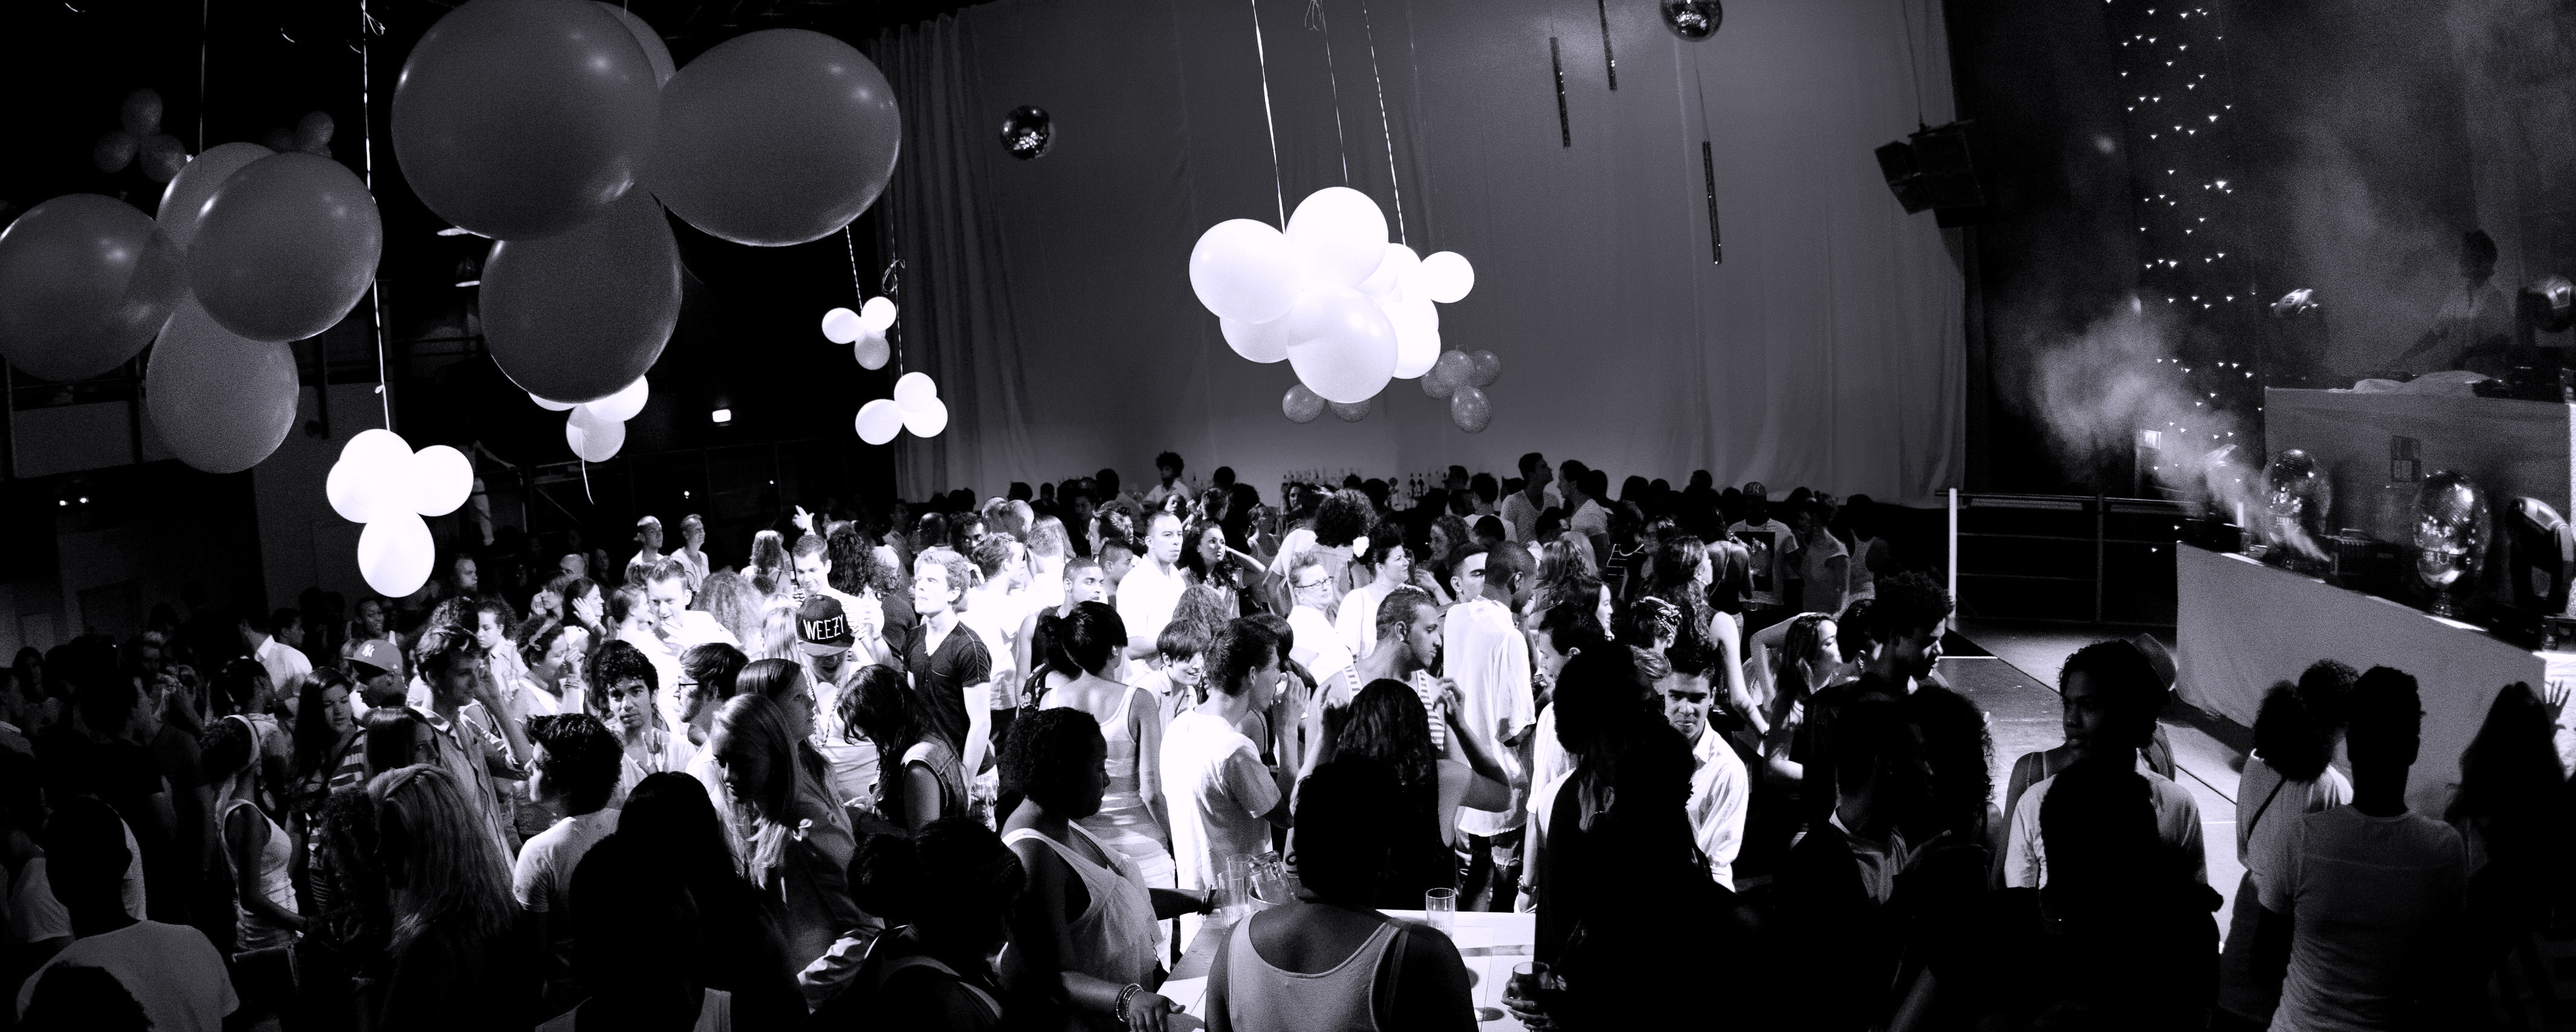
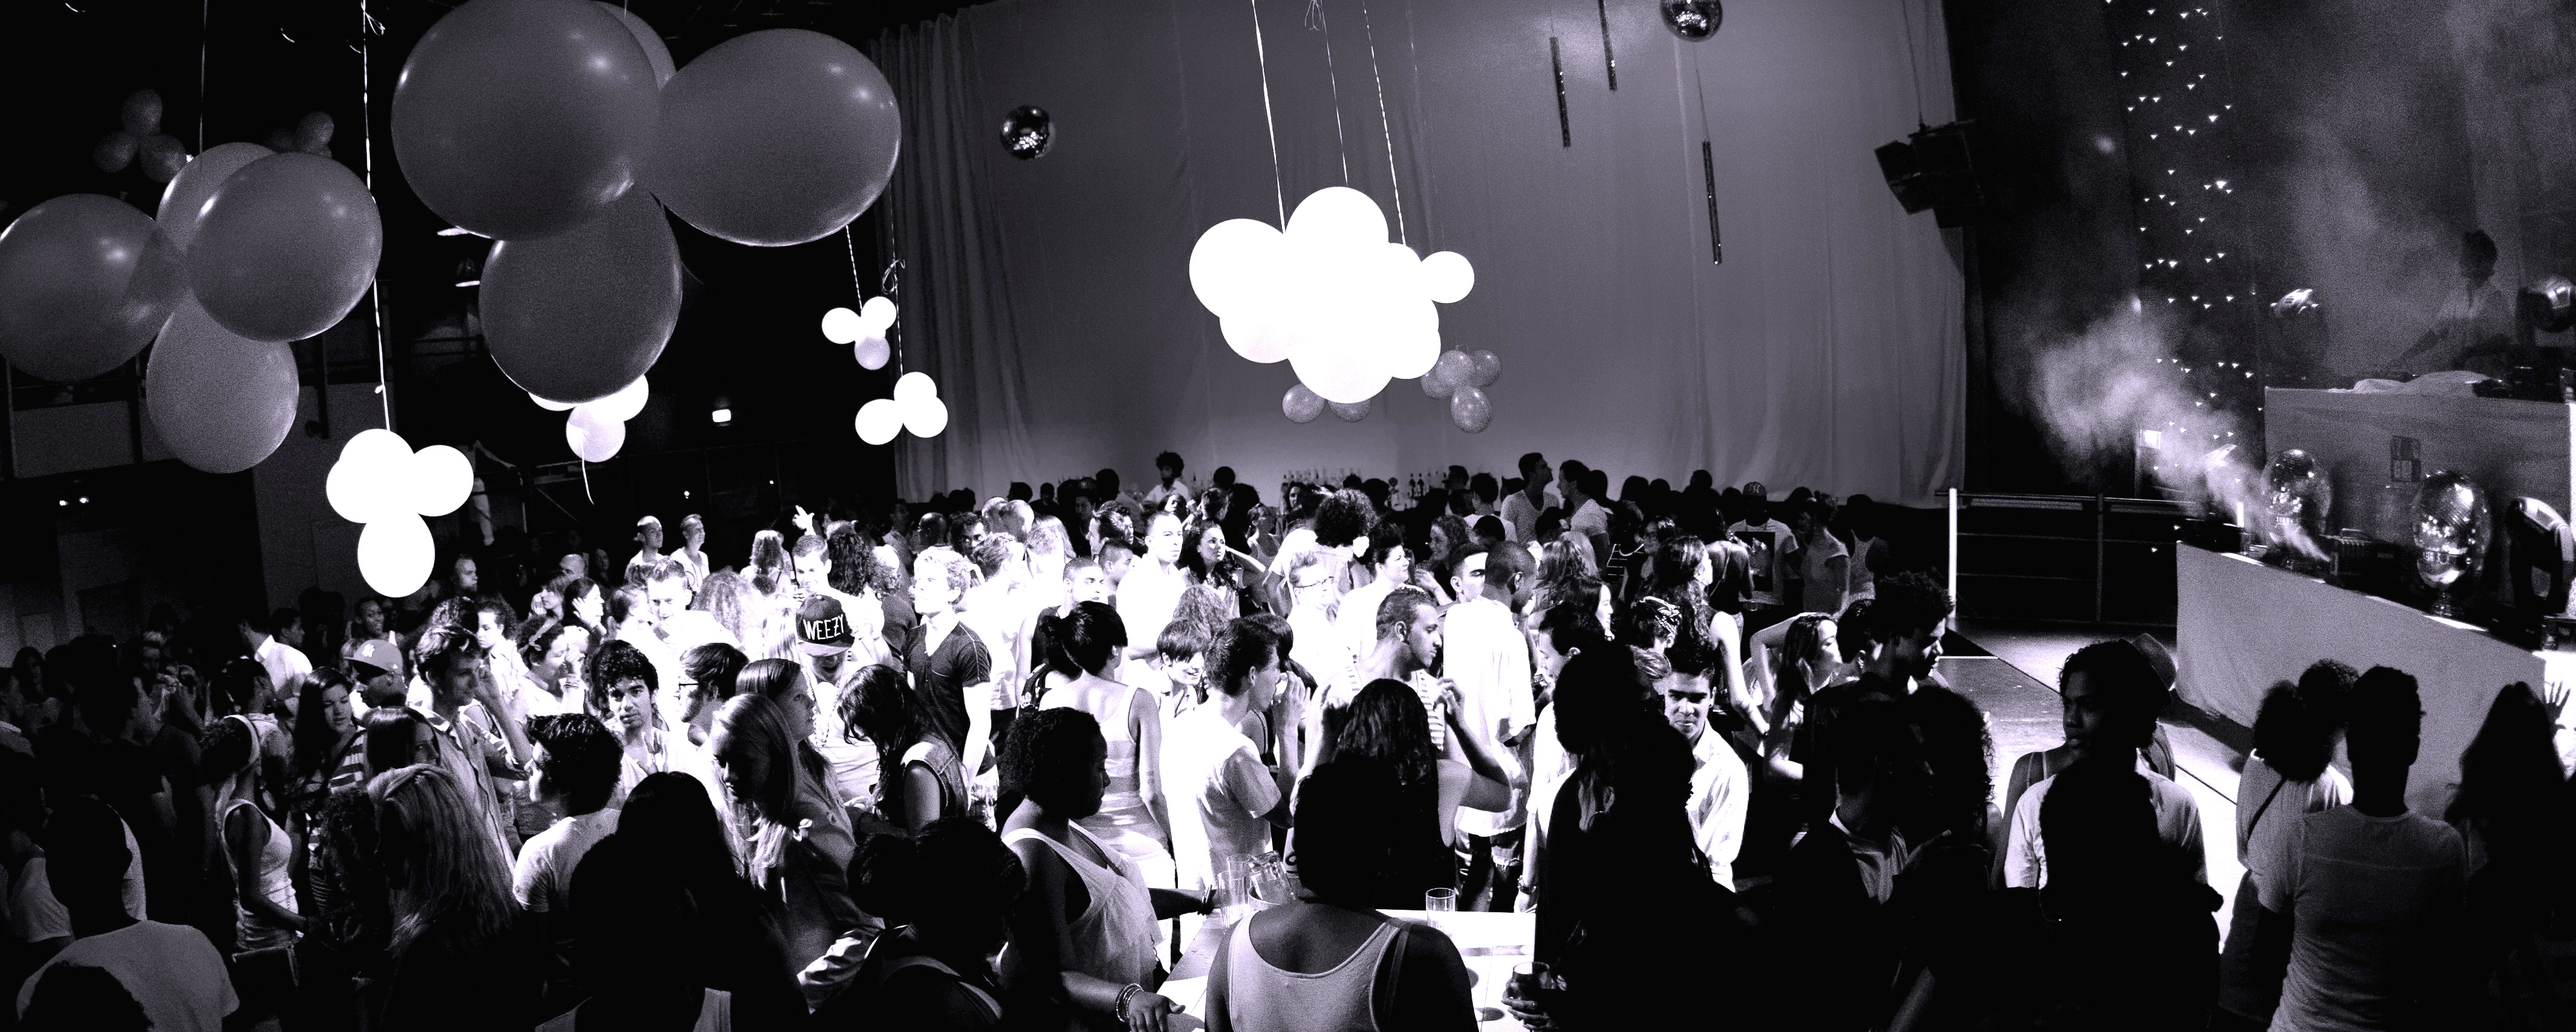
scroll/parallax scroll for pages plus image for events page

diff --git a/public/abouttest.css b/public/abouttest.css
@@ -1,0 +1,82 @@
+/* ============================================================
+  PRIMARY STRUCTURE
+============================================================ */
+.container {
+  max-width: 960px;
+  margin: 0 auto;
+}
+/* ============================================================
+  SECTIONS
+============================================================ */
+section.module:last-child {
+  margin-bottom: 0;
+}
+section.module h2 {
+  margin-bottom: 40px;
+  font-family: "Roboto Slab", serif;
+  font-size: 30px;
+}
+
+section.module h3 {
+  martin-bottom: 40px;
+  font-family: "Roboto Slab", serif;
+  font-size: 30px;
+}
+section.module p {
+  margin-bottom: 40px;
+  font-size: 16px;
+  font-weight: 300;
+}
+section.module p:last-child {
+  margin-bottom: 0;
+}
+section.module.content {
+  padding: 40px 0;
+}
+section.module.parallax {
+  height: 600px;
+  background-position: 50% 50%;
+  background-repeat: no-repeat;
+  background-attachment: fixed;
+  background-size: cover;
+}
+section.module.parallax h1 {
+  color: rgba(255, 255, 255, 0.8);
+  font-size: 48px;
+  line-height: 600px;
+  font-weight: 700;
+  text-align: center;
+  text-transform: uppercase;
+  text-shadow: 0 0 10px rgba(0, 0, 0, 0.2);
+}
+section.module.parallax-1 {
+  background-image: url("images/hero-images/home2bw.jpeg");
+}
+section.module.parallax-2 {
+  background-image: url("images/hero-images/aboutbw.jpg");
+}
+section.module.parallax-3 {
+  background-image: url("images/hero-images/contactbw.jpeg");
+}
+
+section.module.parallax-4 {
+  background-image: url("images/hero-images/balloonsbw.jpeg");
+}
+
+@media all and (min-width: 600px) {
+  section.module h2 {
+    font-size: 42px;
+  }
+  section.module p {
+    font-size: 20px;
+  }
+  section.module.parallax h1 {
+    font-size: 96px;
+  }
+}
+@media all and (min-width: 960px) {
+  section.module.parallax h1 {
+    font-size: 75px;
+    /*font-color: #33CCFF;*/
+  }
+}
